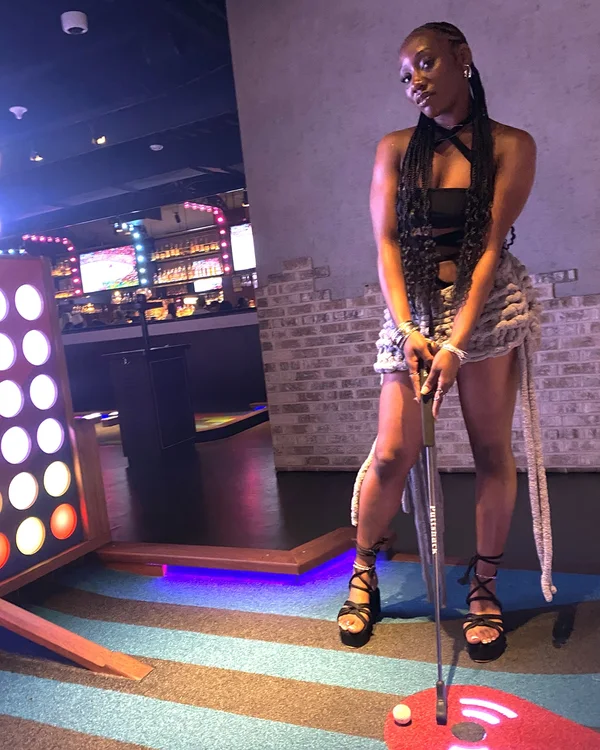
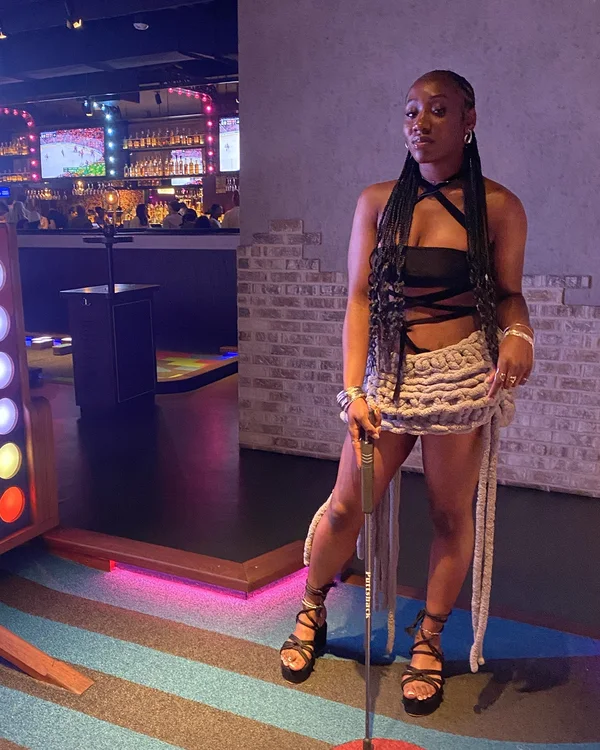
Preview: revert skirt photos, rename section to Everything I Make
Claude-Session: https://claude.ai/code/session_01U4KW6ojkeLuDGZiacLkWzE

diff --git a/index.html b/index.html
@@ -376,7 +376,7 @@
 <section class="sec work" aria-labelledby="work">
   <div class="wrap">
     <p class="kicker caps">03 · The work</p>
-    <h2 class="h2" id="work"><span class="scr">The four</span>Lanes</h2>
+    <h2 class="h2" id="work"><span class="scr">Everything I</span>Make</h2>
 
     <div class="tabs" role="tablist">
       <button role="tab" id="t-software" aria-controls="p-software" aria-selected="true">Software</button>
@@ -433,7 +433,7 @@
     <div role="tabpanel" id="p-apparel" aria-labelledby="t-apparel" hidden>
       <p class="panel-intro">Clothing I design and make, from handmade pieces to streetwear.</p>
       <div class="garments">
-        <figure class="tall"><img src="img/apparel-skirt.webp" alt="Raven smiling in a red chunky knit skirt she made" width="600" height="750" loading="lazy" decoding="async"><figcaption><span class="caps">Handmade</span>The red skirt</figcaption></figure>
+        <figure class="tall"><img src="img/apparel-skirt.webp" alt="Raven wearing a red knit skirt she made" width="600" height="750" loading="lazy" decoding="async"><figcaption><span class="caps">Handmade</span>The red skirt</figcaption></figure>
         <figure class="tall"><img src="img/apparel-knit.webp" alt="Raven wearing a chunky knit skirt she made" width="600" height="750" loading="lazy" decoding="async"><figcaption><span class="caps">Handmade</span>The chunky knit skirt</figcaption></figure>
         <figure><img src="img/apparel-nxxxa.webp" alt="Burgundy NXXXA crewneck sweatshirt mockup" width="600" height="600" loading="lazy" decoding="async"><figcaption><span class="caps">Streetwear</span>NXXXA crewneck</figcaption></figure>
         <figure><img src="img/apparel-osage.webp" alt="Black Philadelphia Osage Avenue 1985 sweatshirt mockup" width="600" height="600" loading="lazy" decoding="async"><figcaption><span class="caps">Streetwear</span>Osage Avenue 1985</figcaption></figure>
